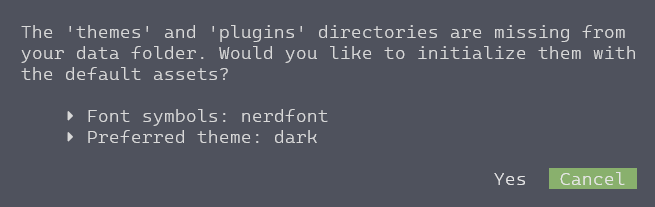
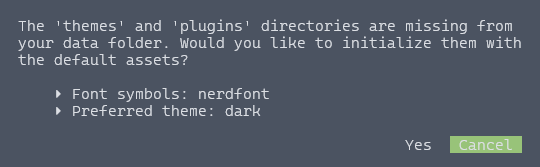
Fix directory exists check for download files

diff --git a/b4n-tasks/commands/transfer_file.rs b/b4n-tasks/commands/transfer_file.rs
@@ -51,6 +51,7 @@ pub enum TransferFileError {
 /// Result from the file transfer command.
 pub struct TransferFileResult {
     pub is_download: bool,
+    pub is_directory: bool,
     pub pod: String,
     pub container: String,
     pub file: String,
@@ -114,13 +115,10 @@ async fn download_file(
     text_id: &str,
     icon: char,
 ) -> Result<TransferFileResult, TransferFileError> {
-    if !context.overwrite_files && tokio::fs::try_exists(&context.to).await? {
-        return Err(TransferFileError::DestinationExists(context.to.clone()));
-    }
-
     let remote_from = resolve_remote_tilde(&pods, &resource, &context.container, context.from).await?;
     let source = Path::new(&remote_from);
     let (dir, file) = split_path(source)?;
+    validate_download_destination(Path::new(&context.to), file, context.overwrite_files).await?;
 
     let attach_params = build_attach_params(&context.container).stderr(true);
     let mut attached = pods
@@ -155,6 +153,7 @@ async fn download_file(
         .await
         .map_err(|err| TransferFileError::RemoteProcessError(err.to_string()))?;
 
+    let is_directory = is_directory_in_archive(&tar_data)?;
     runtime
         .spawn_blocking({
             let _destination = context.to.clone();
@@ -164,6 +163,7 @@ async fn download_file(
 
     Ok(TransferFileResult {
         is_download: true,
+        is_directory,
         pod: resource.name,
         container: context.container,
         file: file.to_owned(),
@@ -197,6 +197,7 @@ async fn upload_file(
         })
         .await??;
 
+    let is_directory = is_directory_in_archive(&tar_buffer)?;
     let attach_params = build_attach_params(&context.container).stdin(true).stderr(true);
     let mut attached = pods
         .exec(&resource.name, ["tar", "xf", "-", "-C", &remote_to], &attach_params)
@@ -233,10 +234,36 @@ async fn upload_file(
 
     Ok(TransferFileResult {
         is_download: false,
+        is_directory,
         pod: resource.name,
         container: context.container,
         file: file_name,
     })
+}
+
+fn is_directory_in_archive(data: &[u8]) -> Result<bool, TransferFileError> {
+    let mut archive = tar::Archive::new(data);
+    Ok(archive
+        .entries()?
+        .next()
+        .transpose()?
+        .is_some_and(|entry| entry.header().entry_type().is_dir()))
+}
+
+async fn validate_download_destination(destination: &Path, file: &str, overwrite: bool) -> Result<(), TransferFileError> {
+    match tokio::fs::metadata(destination).await {
+        Ok(metadata) if !metadata.is_dir() => return Err(TransferFileError::InvalidPath(destination.to_path_buf())),
+        Ok(_) => {},
+        Err(err) if err.kind() == std::io::ErrorKind::NotFound => {},
+        Err(err) => return Err(err.into()),
+    }
+
+    let target = destination.join(file);
+    if !overwrite && tokio::fs::try_exists(&target).await? {
+        return Err(TransferFileError::DestinationExists(target.to_string_lossy().into_owned()));
+    }
+
+    Ok(())
 }
 
 fn build_tar_blocking(path: String, name: String) -> Result<Vec<u8>, TransferFileError> {

diff --git a/b4n/core/managers/views.rs b/b4n/core/managers/views.rs
@@ -700,7 +700,8 @@ impl ViewsManager {
         match result {
             Ok(result) => {
                 let msg = format!(
-                    "File '{}' successfully transferred {} the '{}' container, '{}' pod",
+                    "{} '{}' successfully transferred {} the '{}' container, '{}' pod",
+                    if result.is_directory { "Directory" } else { "File" },
                     result.file,
                     if result.is_download { "from" } else { "to" },
                     result.container,

diff --git a/README.md b/README.md
@@ -32,12 +32,16 @@ symbols: nerdfont # use 'plain' or 'powerline' if terminal does not support Nerd
 
 ### Manual
 
-1. Download the latest release from the [releases page](https://github.com/fioletoven/b4n/releases/latest).
-2. Extract the archive and run the binary.
-3. On first launch, `b4n` will prompt you to copy the `themes` and `plugins` directories to the application's data directory:  
+1. Download the latest release from the [releases page](https://github.com/fioletoven/b4n/releases/latest),
+1. Extract the archive and run the binary,
+1. On first launch, `b4n` will prompt you to copy the `themes` and `plugins` directories to the application's data directory:  
     ![b4n first run](assets/first_run.png?raw=true "b4n asking question about assets")  
-    > you can also choose the symbol set supported by your terminal (`plain`, `powerline` or `nerdfont`) and the theme mode (`dark` or `light`)
-4. Add the `b4n` binary to your `PATH`, or move it to a directory already included in `PATH`.
+    > You can also choose the symbol set supported by your terminal (`plain`, `powerline` or `nerdfont`) and the theme mode (`dark` or `light`),
+1. Add the `b4n` binary to your `PATH`, or move it to a directory already included in `PATH`,
+1. You can delete the archive (and the extracted folder if the `b4n` binary was moved).
+
+> Note: If the copy assets prompt is not showing, you can always copy the `themes` and `plugins` directories by hand to the place pointed out
+> by the `b4n --show-dirs` command.
 
 ### Homebrew
 
@@ -55,7 +59,7 @@ brew upgrade b4n
 
 ## Building
 
-To build `b4n` ensure you have a recent Rust toolchain installed (1.95+). Clone the repository and navigate into the project directory:
+To build `b4n`, ensure you have a recent Rust toolchain installed (1.95+). Clone the repository and navigate into the project directory:
 
 ```bash
 git clone https://github.com/fioletoven/b4n.git
@@ -167,7 +171,7 @@ In edit mode, the following shortcuts are available:
 
 ## File Transfer
 
-Feature requires a `tar` executable on the container where files are uploaded to or downloaded from.
+This feature requires a `tar` executable on the container where files are uploaded to or downloaded from.
 
 If `Overwrite files` is unchecked before the transfer, a check will be executed on the remote container that requires the presence of `sh` and `test` commands (if the container does not have these commands, as a workaround the checkbox can be checked, but be aware that files may be overwritten).
 
@@ -269,7 +273,7 @@ The plugins folder is not created automatically. Example plugins are available i
 
 ### themes/
 
-This folder stores TUI themes. It is not created automatically. Place theme files here to make them available in the application - either by copying themes from the `assets/themes` folder or by creating your own.
+This folder stores TUI themes. It is not created automatically. Place theme files here to make them available in the application, either by copying themes from the `assets/themes` folder or by creating your own.
 
 ### config.yaml
 
@@ -313,9 +317,9 @@ key_bindings:
 - `logs.lines` - Number of log lines to retrieve from the Kubernetes API for the selected container.
 - `logs.timestamps` - Whether timestamps are enabled by default for logs. You can still toggle this while viewing logs.
 - `logs.format` - Whether formatting structured logs is enabled by default. You can still toggle formatting while viewing logs.
-- `read_only` - If true no destructive actions can be selected from the app UI.
+- `read_only` - If true, no destructive actions can be selected from the app UI.
 - `mouse` - Whether mouse support is enabled when the application starts. You can also toggle it while the app is running.
-- `terminal.system_cursor` - If true all terminal views will stop drawing its own cursor and start using the system one.
+- `terminal.system_cursor` - If true, all terminal views will stop drawing their own cursor and start using the system one.
 - `terminal.scrollback_lines` - A configurable maximum size limit of the terminal scrollback buffer.
 - `symbols` - Symbols used in the app UI, possible options: `nerdfont`, `powerline` and `plain`.
 - `theme` - The name of the currently selected theme. This should match a file in the `themes` directory (without the `.yaml` extension).

diff --git a/CHANGELOG.md b/CHANGELOG.md
@@ -1,5 +1,11 @@
 # Change Log
 
+## WIP
+
+### Features
+
+- allow to upload directories in file transfer dialog
+
 ## 1.2.0 - 2026-10-18
 
 ### Features
